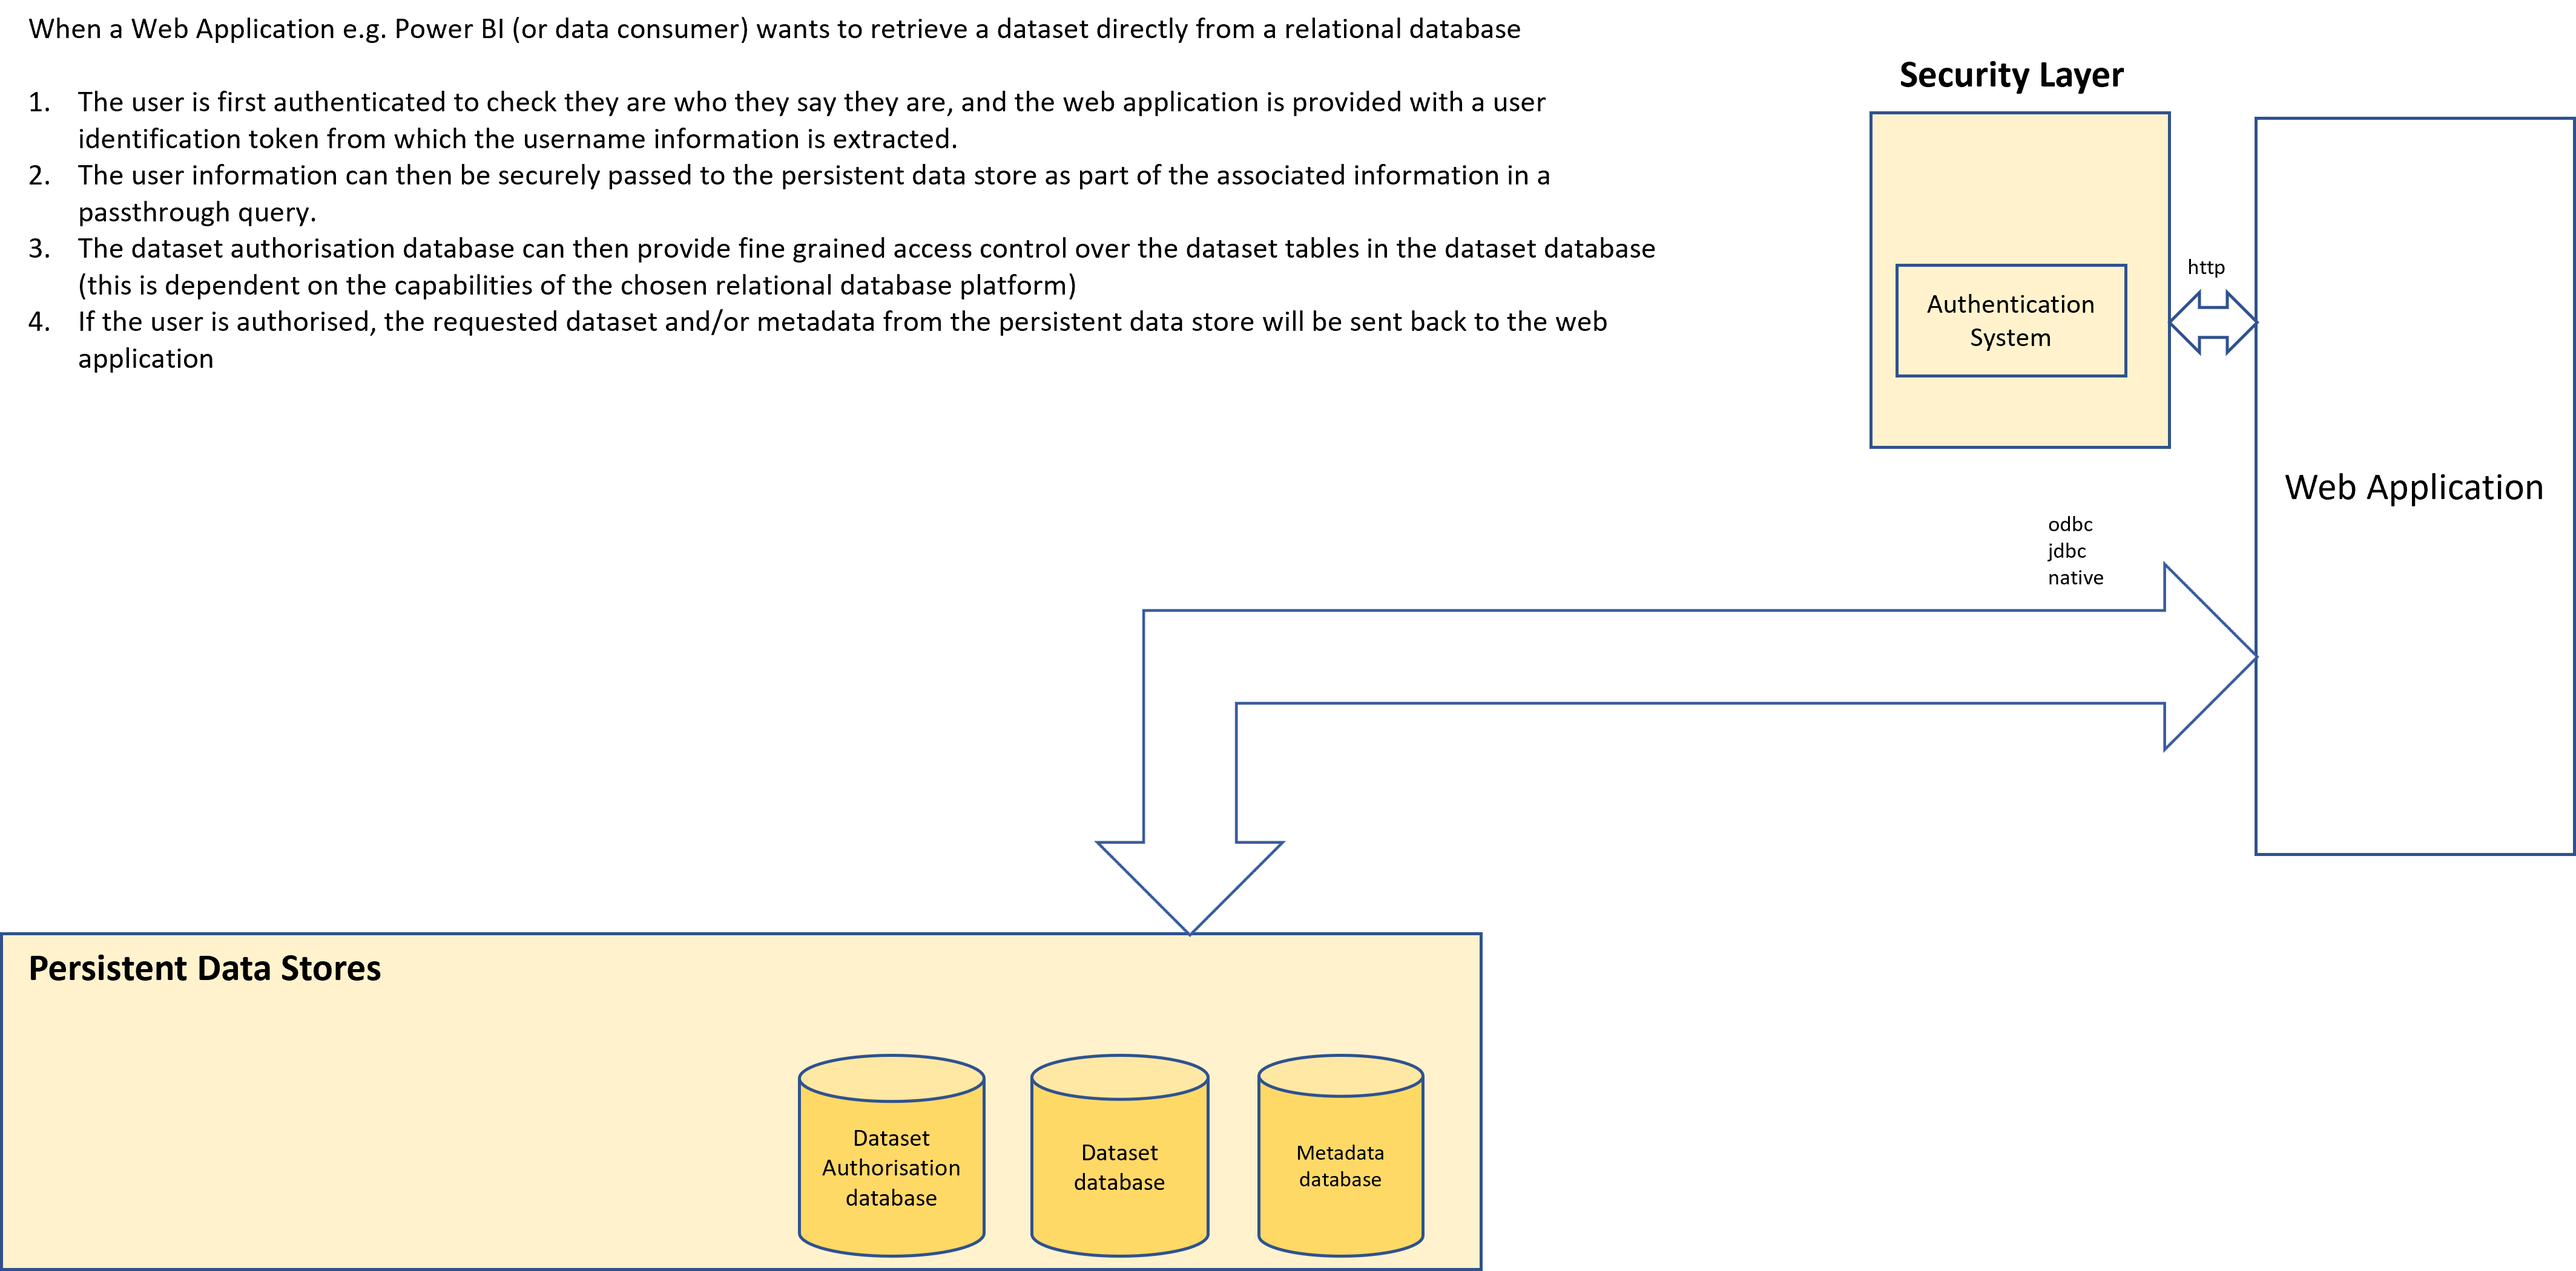
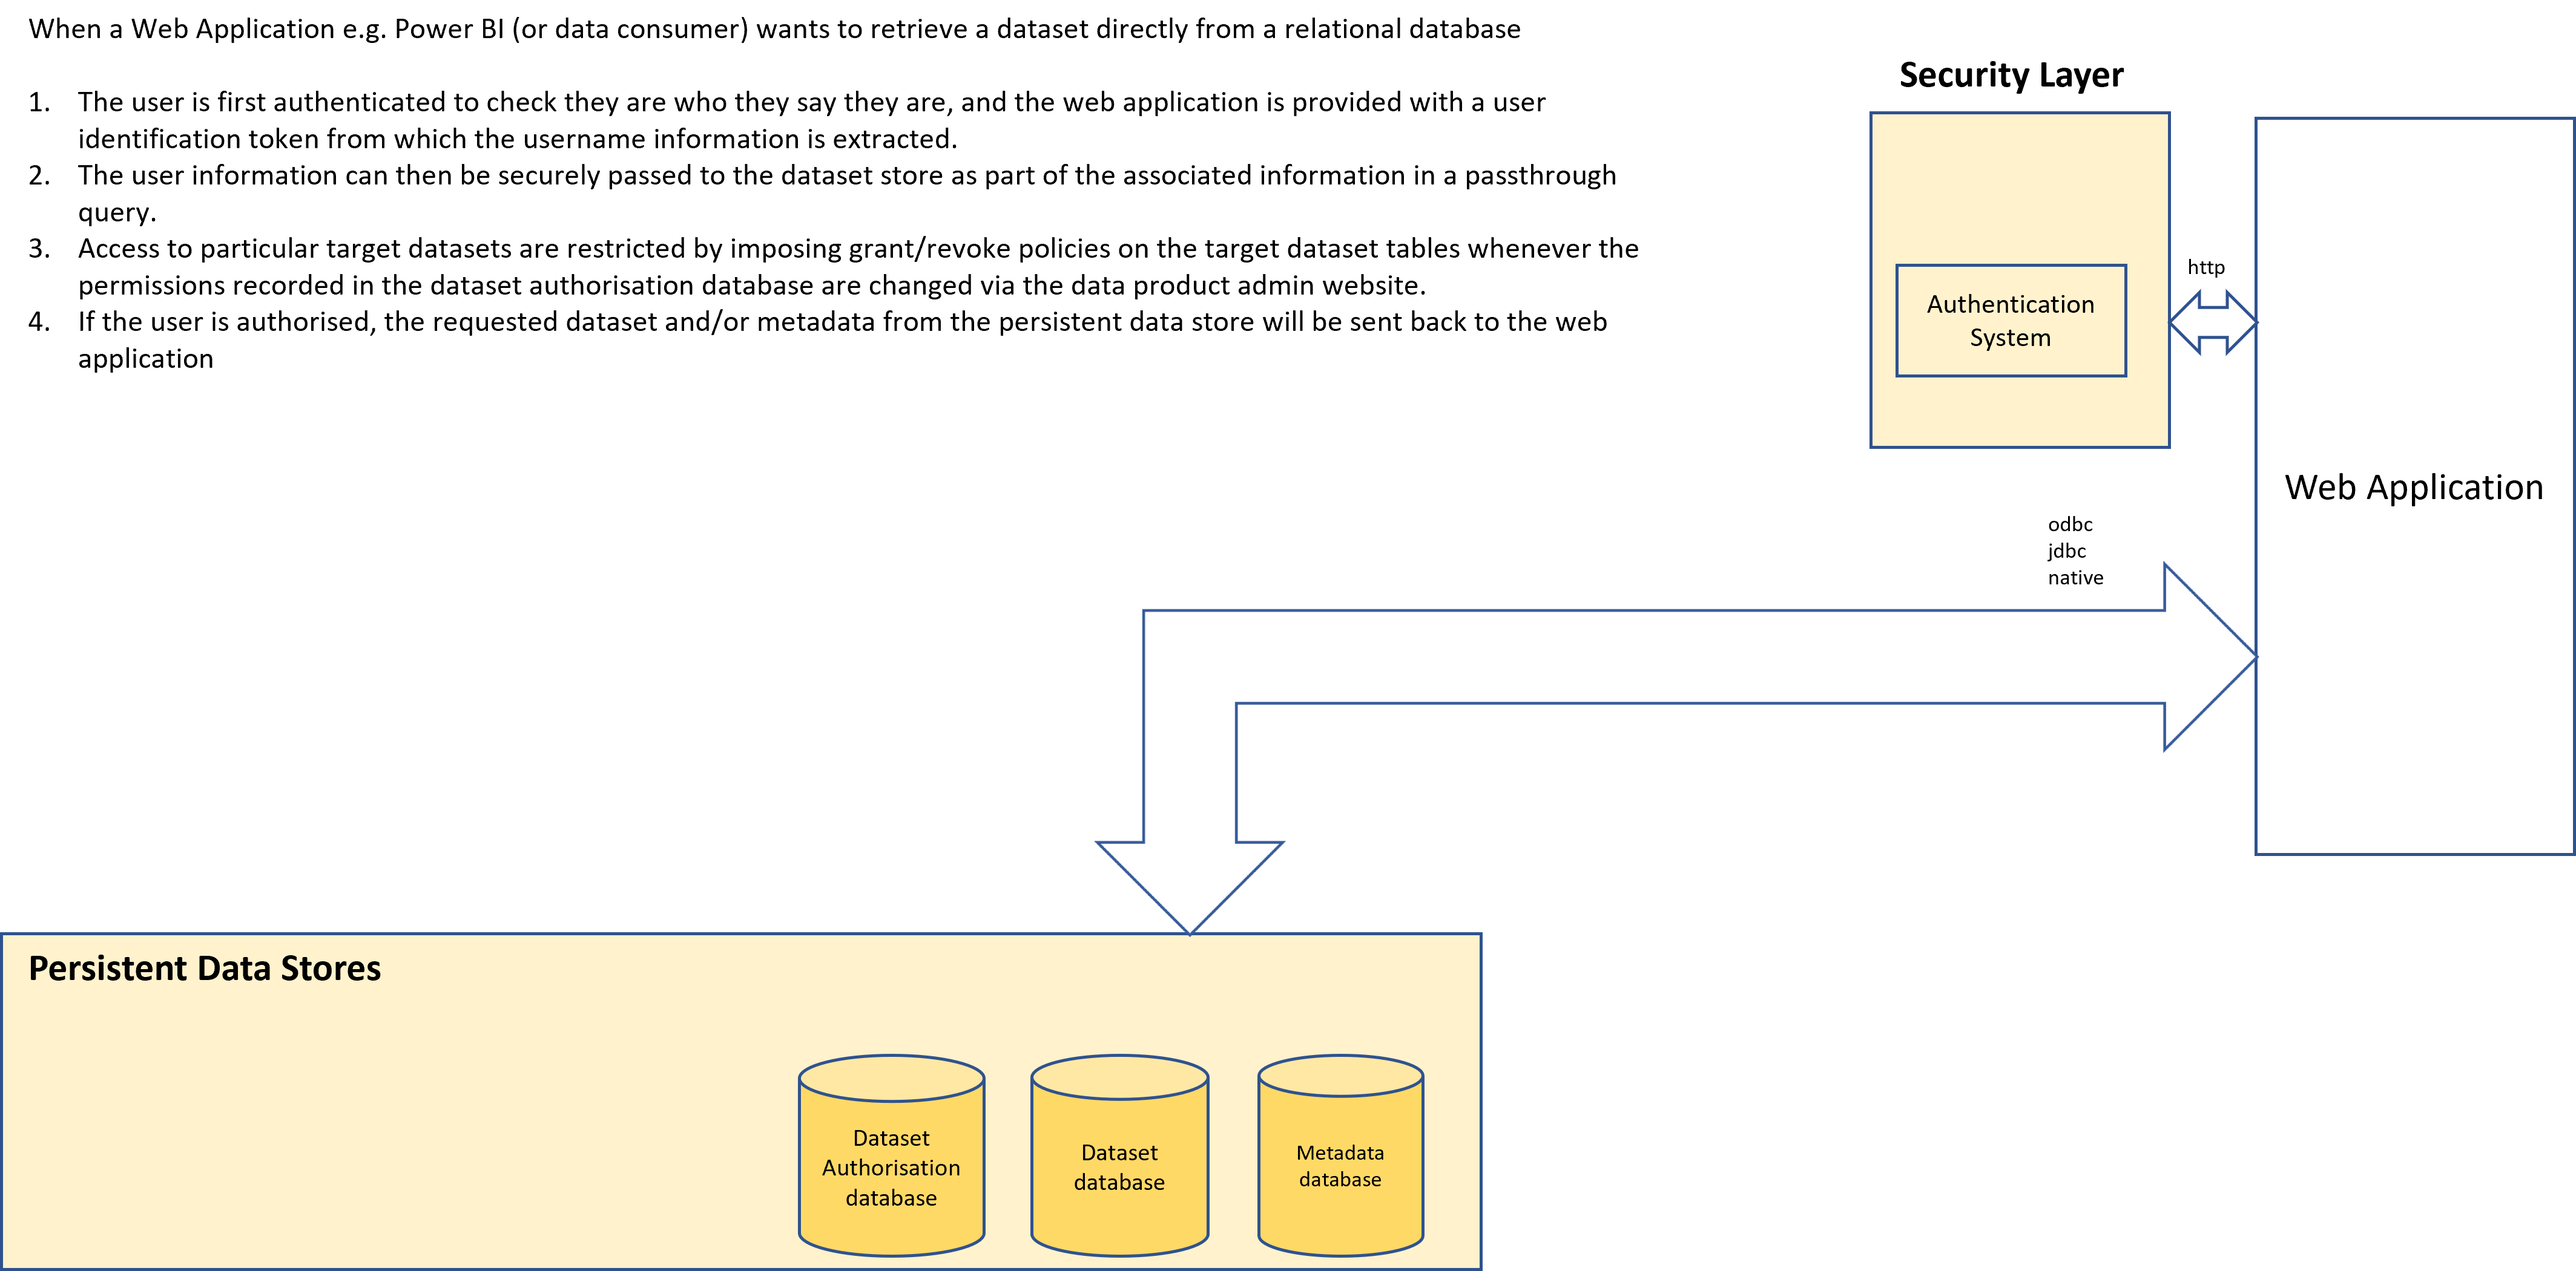
Updated info about how user authentication, data product authorisation and dataset authorisation are expected to work

Changed region(s): [[0.031, 0.1547, 0.6515, 0.2475], [0.3102, 0.1238, 0.6204, 0.1547]]

diff --git a/dp-authentication.md b/dp-authentication.md
@@ -47,13 +47,14 @@ e.g.
 Authorisation means ensuring that an authenticated user is permitted to access the requested data.
 Authorisation is a loaded term. So needs to be split down further for clarity.
 
-### Service/App authorisation
-This type of authorisation just ensures that a particular user/role is permitted to access a particular service/app. Dependent on the authorisation system used it may be able to authorise just a service/app or a particular endpoint on a service/app.
-Identity & access management systems such as Azure Active Directory typically just provide authorisation at this level
+### Data Product Authorisation
+This type of authorisation just ensures that a particular user/role is permitted to access a particular data product. 
+Dependent on the authorisation system used it may be able to authorise the data product in it's entirety or specific endpoints.
+So, for example, it may be desirable to allow free access to the Discovery port/endpoint so that anybody can view the data product documentation, but restrict access to the output data ports
+to a particular set of users, and restrict access to the input data port and control data port to specific roles.
 
-### Fine grained access control authorisation
-If more fine grained access control is required e.g. as is typically the case in a relational database or a file store, then a different authorisation system needs to be employed.
-For data products, we'd ideally be able to be able to ensure that only particular users/roles can be given access to a particular dataset and possibly fields within that dataset.
+### Dataset authorisation
+As a data product can provide more than 1 target dataset, it is also desirable to provide more fine grained access control at the dataset level.
 
 # Implementing Authentication & Authorisation within an Organisation
 ![Proposed authentication & authorisation architecture](dp-authentication.png)
@@ -62,24 +63,14 @@ For data products, we'd ideally be able to be able to ensure that only particula
 When an application/system needs access to data products:-
 1. Token based authentication should be used 
 2. Access to the data products should be via a gateway
-3. The gateway can then check the token with an authentication system and check that the application/system is allowed access to the data product (minimal) or data product endpoint (preferred) via an authorisation system.
+3. The gateway can then check the token with an authentication system and check that the application/system is allowed access to the data product (minimal) or data product endpoint (preferred) via the data product authorisation system.
 
-## User to machine authentication & authorisation
-When a user wants to access a data product, then the problem is that only consumer facing applications know who that user is. 
-The user's credentials are typically not passed back to back end systems, and it's usually deemed bad practice to do so. 
-For example, Microsoft typically advise that any application that they host be authorised using a personal access token that is owned by the "service principal" (the account that created the app/service)
-In the case of Power BI, even if it was possible for a Power BI desktop user to be able to pass their credentials to a data product, when the report is deployed to Power BI Service, it can only retrieve a dataset from the data product using a single account. 
+## User authentication
+It is desirable that users are authenticated via an organisation's user authentication system e.g. Azure Active Directory and ideally using Single Sign-On technology e.g. PingID.
 
-So in the case of Power BI, user authentication & authorisation needs to occur in the consumer application.
-For example, if a power BI report is created that accesses an organisations sales information, then in this scenario, access to the data product will be controlled by machine to machine authorisation and authentication by passing a personal access token generated for the service principal. 
-A particular user will be authenticated using the organisations standard identity and access management system e.g. Azure Active Directory.
-A Power BI administrator will ensure that user is given authorised access to the report, not a particular dataset.
+### Data product authorisation
+Users should be assigend to roles and roles should be authorised to access particular data products, and in the case of APIs, particular endpoints
 
-## Fine Grained Authorisation
-Where fine grained data authorisation is required e.g. to omit sensitive field data, 
-the easiest method would be to create 2 versions of a dataset e.g.
-* customers/0.1
-* secure-customers/0.1
-
-The consuming web application/tool can then incorporate the specific dataset into a web page or report 
-The webpage/report could then display the appropriate dataset that the user is entitled to see.
+## Dataset Authorisation
+Dataset authorisation can be achieved by holding user, role, user-role and role-dataset permissions in a relational database. 
+These permissions can then execute the required grant/revoke permissions against the target datasets held in the dataset database. 
